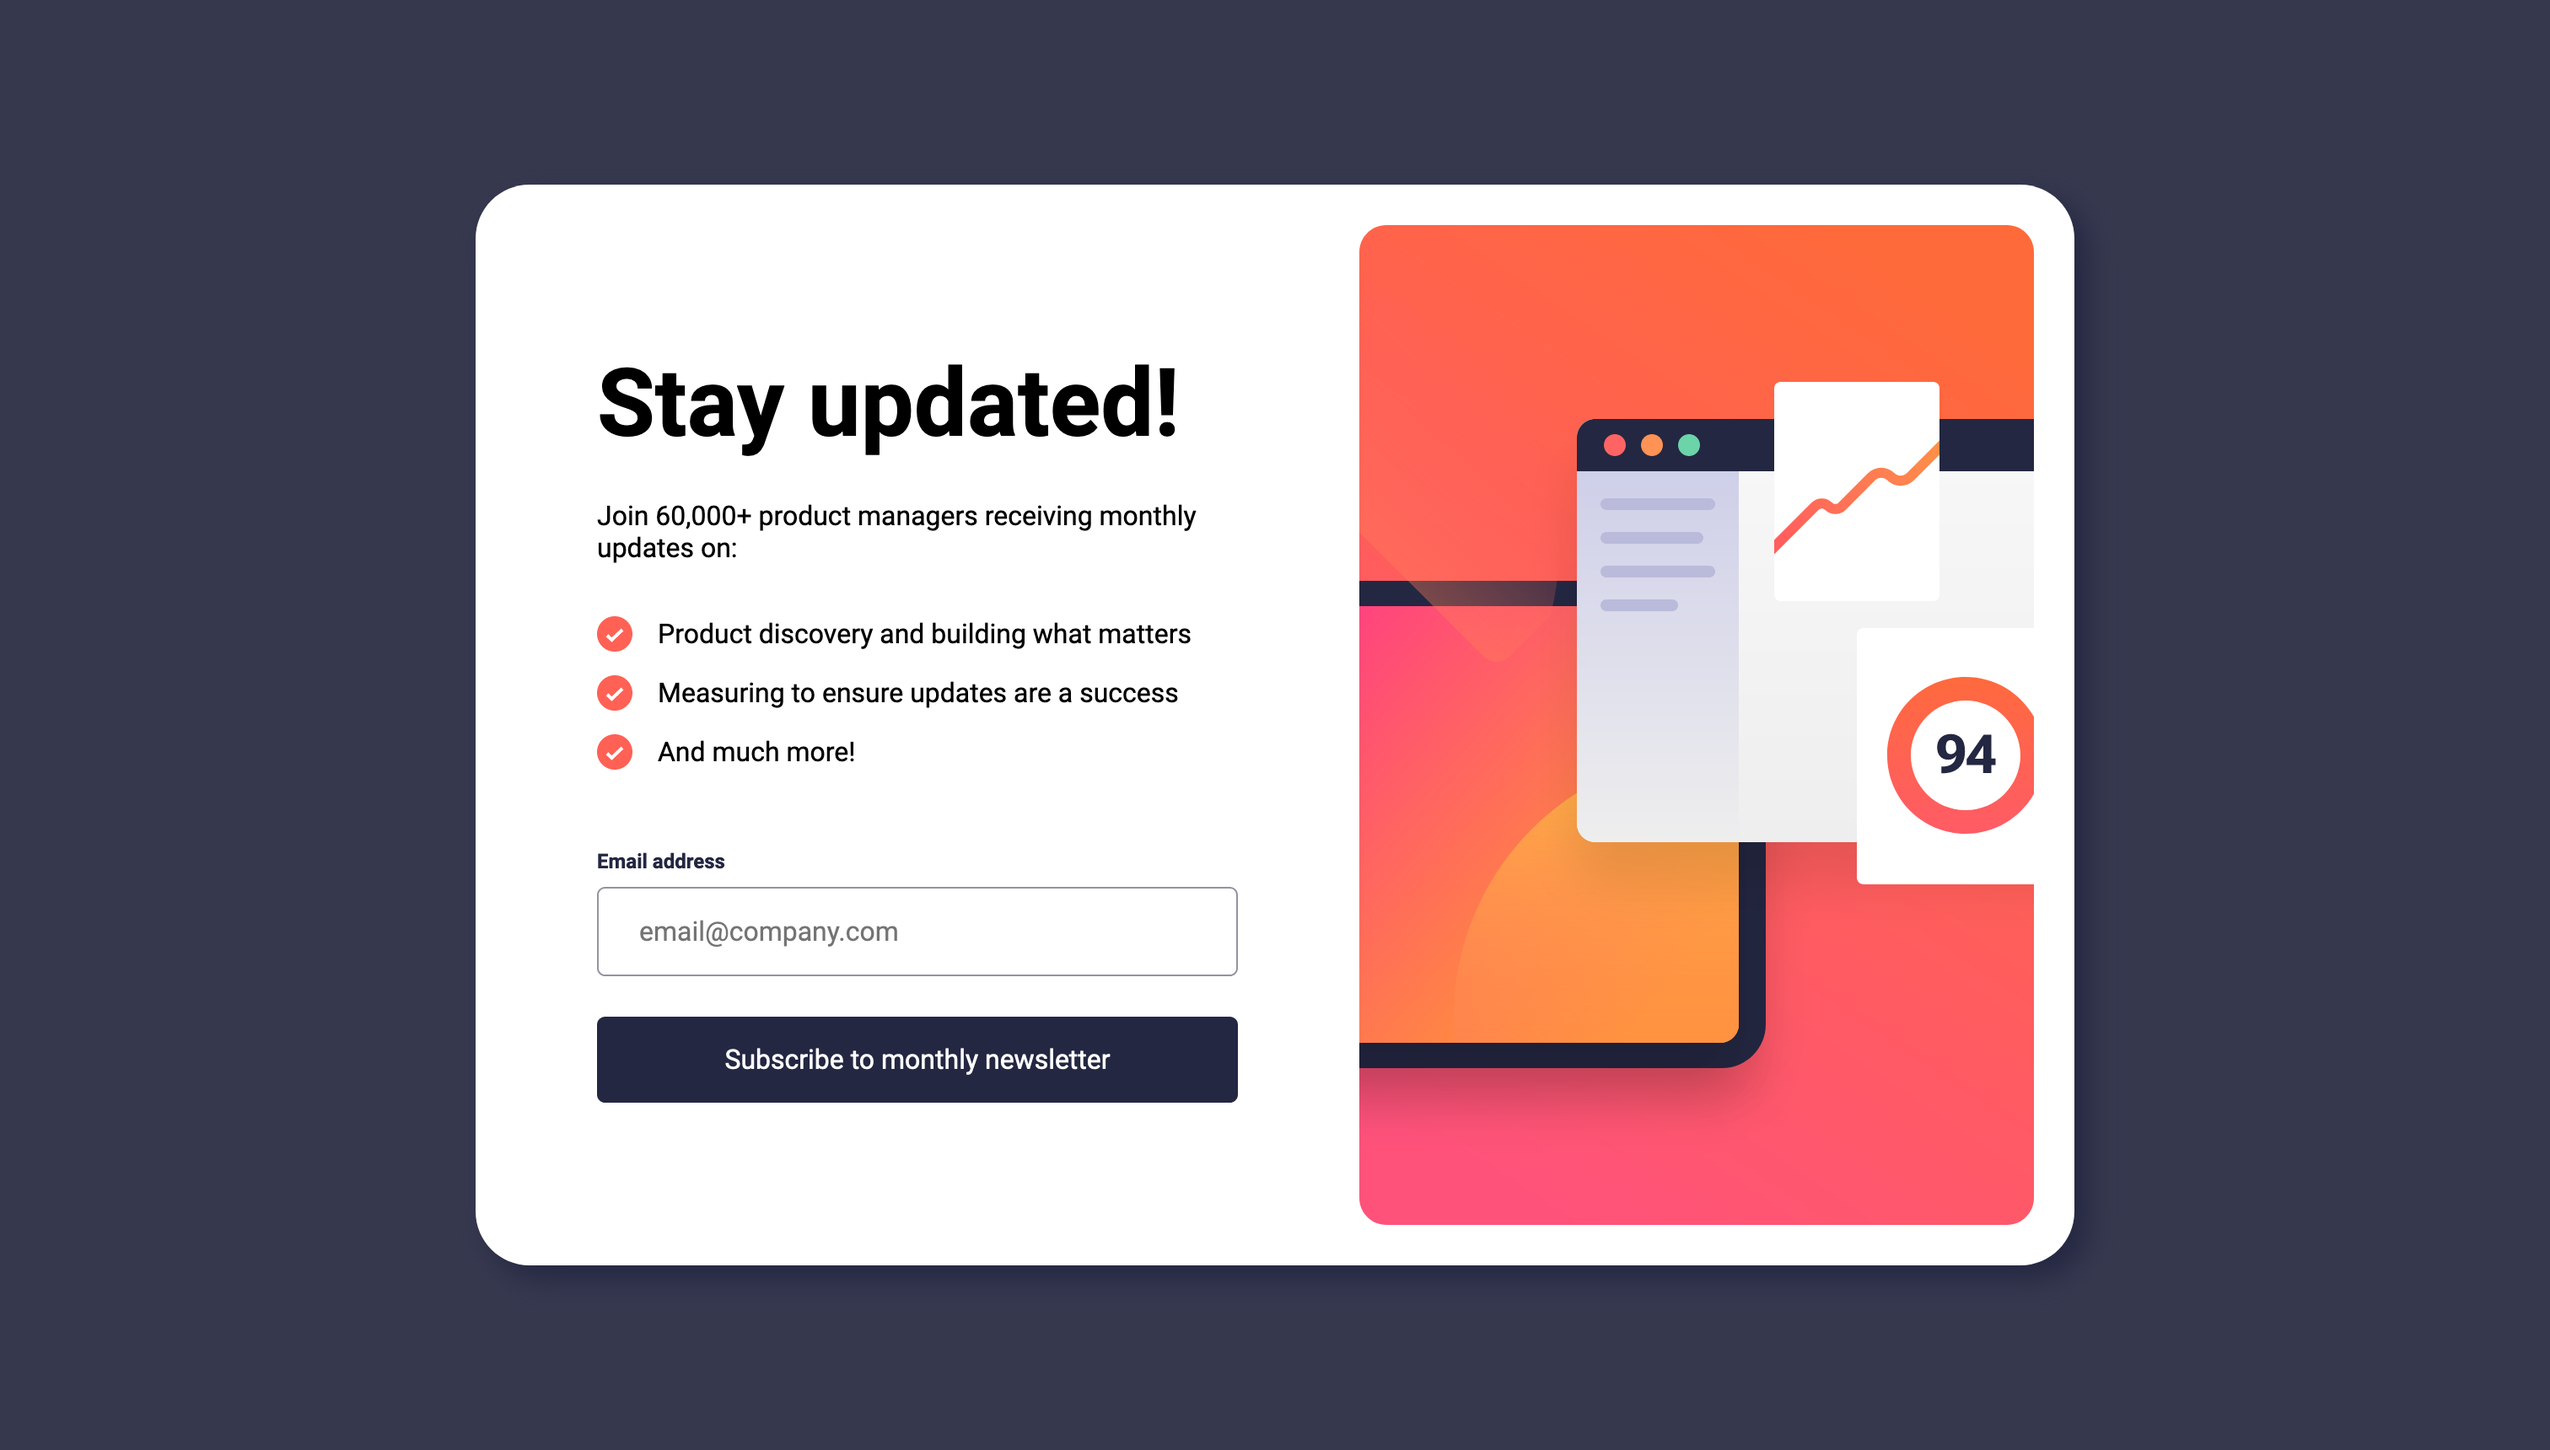
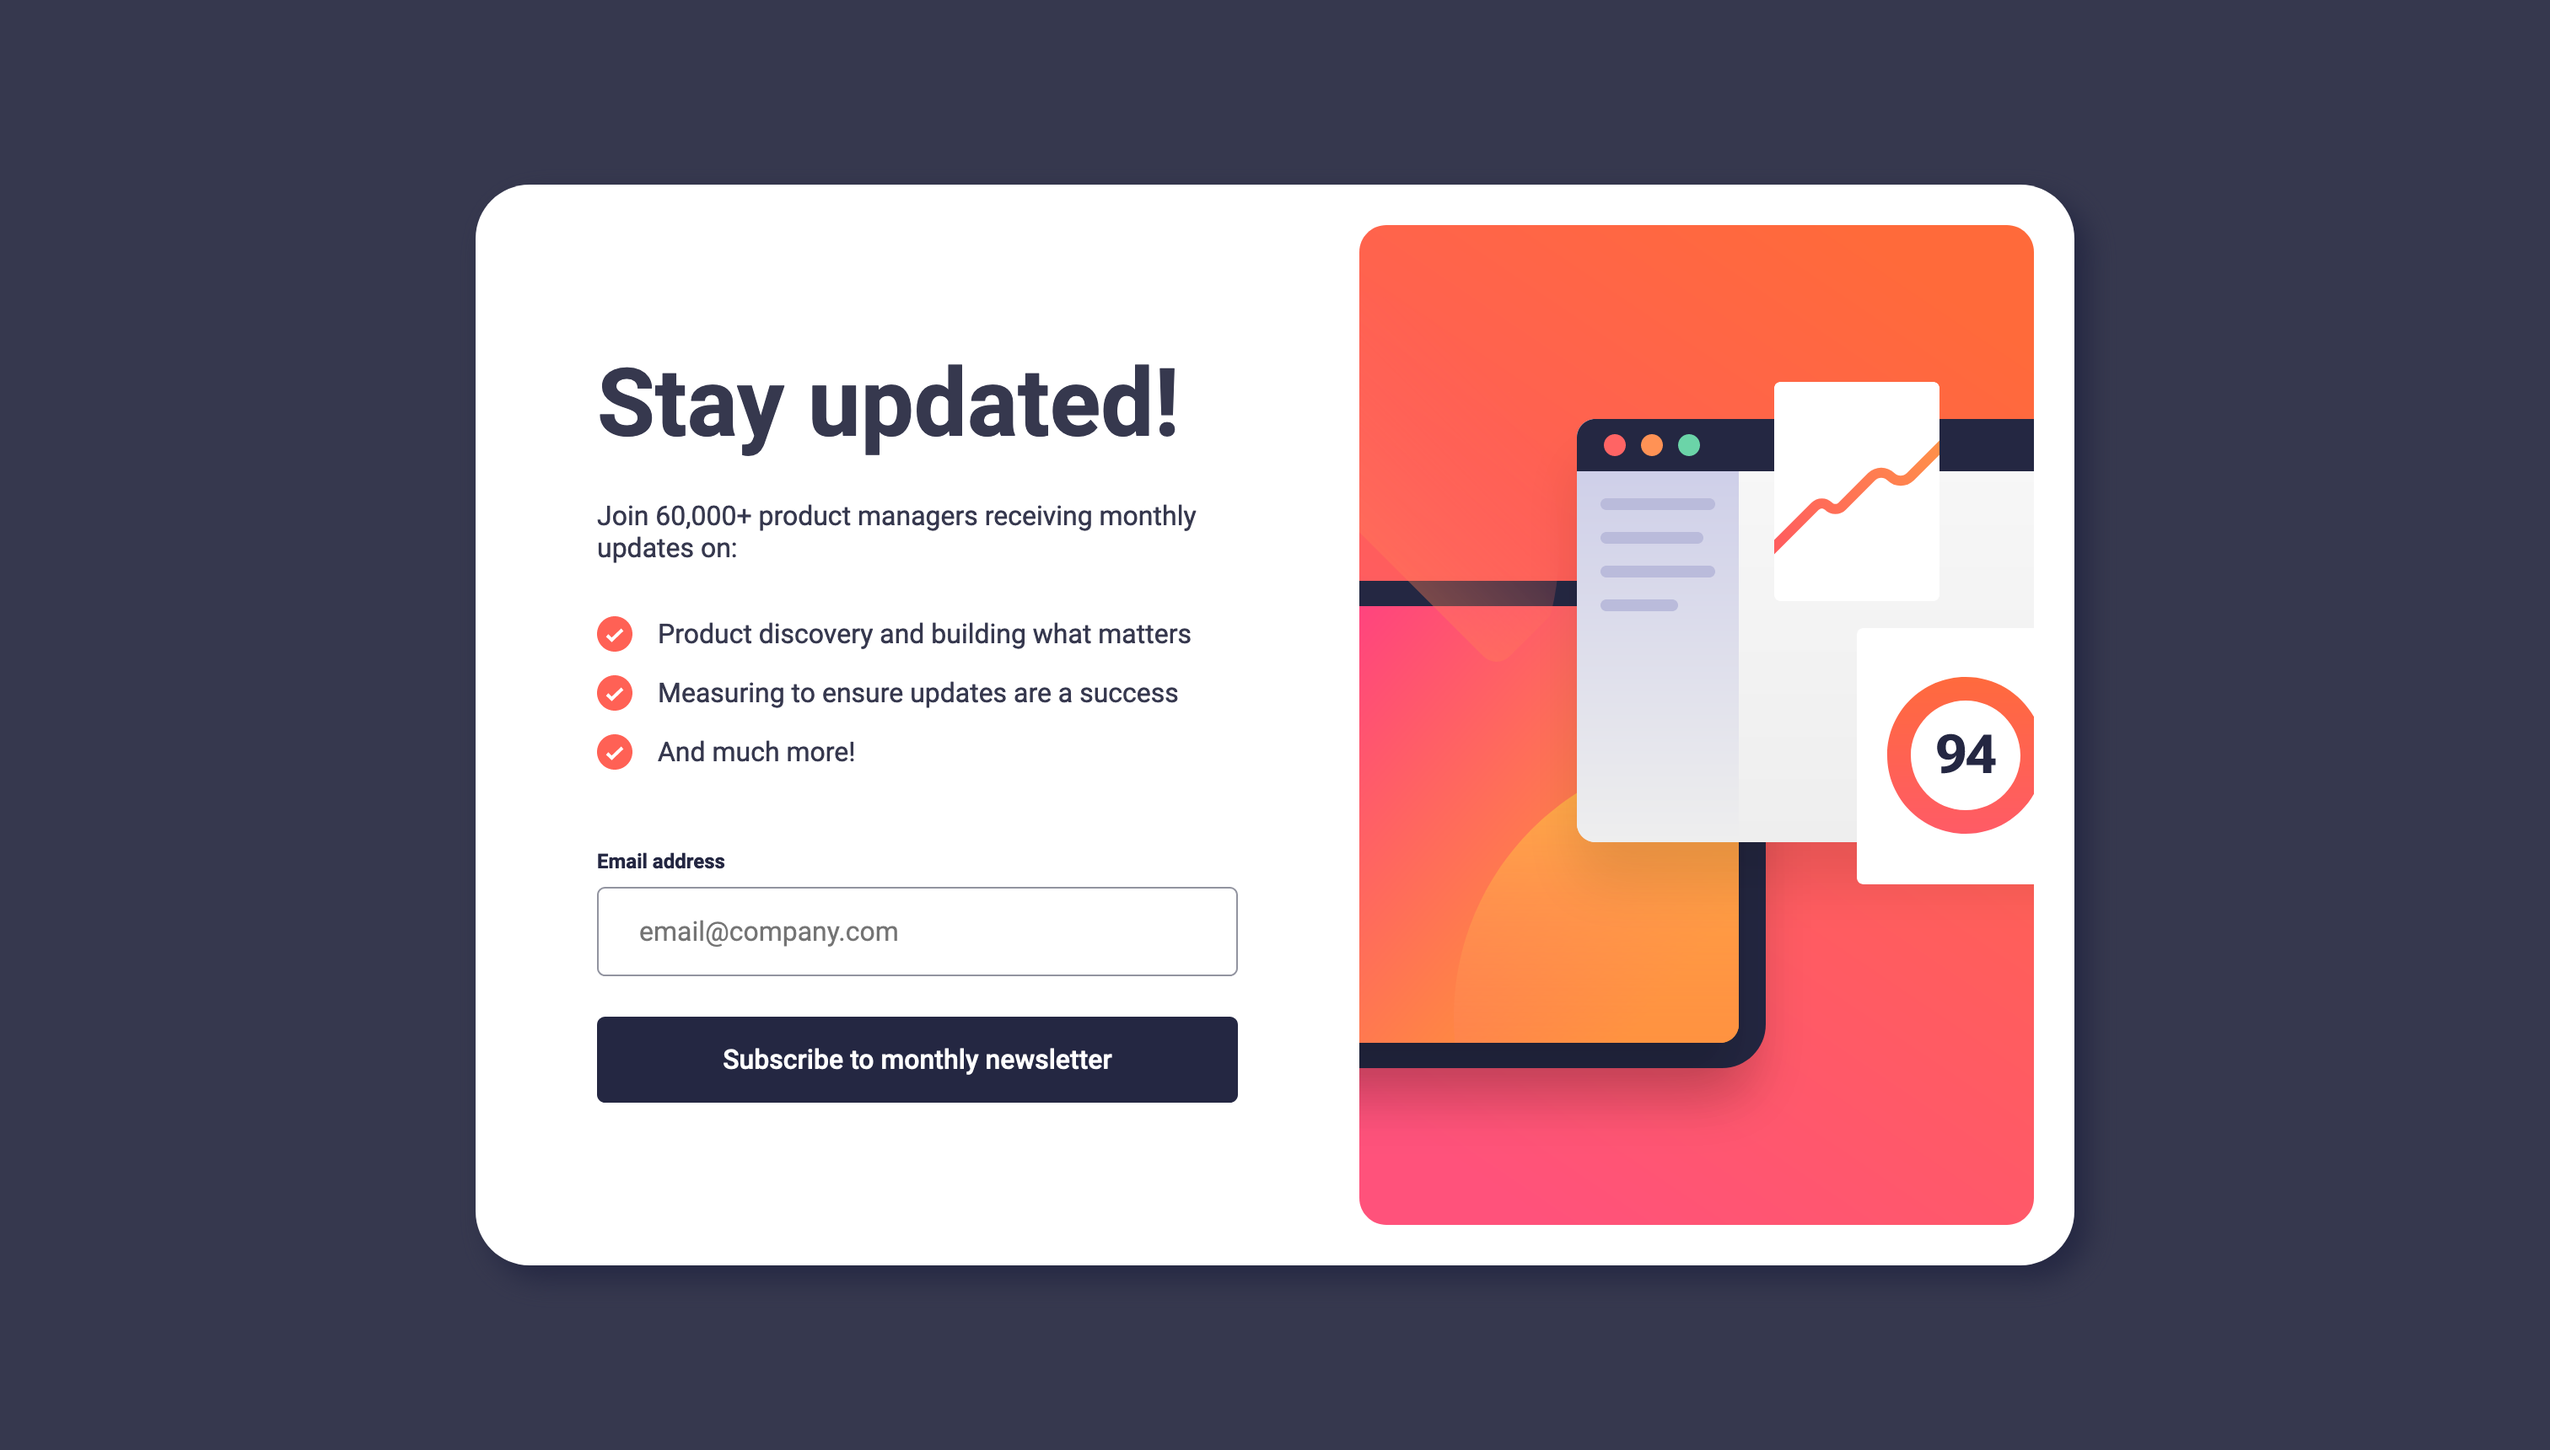
Styled thanks-state and active, focus states. Updated screenshot.

diff --git a/style.css b/style.css
@@ -52,6 +52,17 @@ main {
     width: min(100%, 80rem);
 }
 
+strong {
+    font-weight: var(--fw-bold);
+}
+
+button:hover,
+button:focus,
+button:active {
+    background: linear-gradient(to right, hsl(346, 100%, 66%), hsl(15, 100%, 61%));
+    box-shadow: 0 10px 10px 5px hsl(346, 50%, 66%, 0.5);
+}
+
 .card {
     border-radius: var(--border-radius);
     background-color: var(--clr-neutral-100);
@@ -64,7 +75,10 @@ main {
 
 .card.submitted {
     --start-content-display: none;
-    --thanks-content-display: block;
+    --thanks-content-display: flex;
+    width: 25rem;
+    padding: 2.5rem;
+    display: flex;
 }
 
 @media (max-width: 929px) {
@@ -72,6 +86,10 @@ main {
         padding: 0;
         width: 375px;
         border-radius: 0px;
+    }
+
+    .card.submitted {
+        min-height: 100svh;
     }
 }
 
@@ -96,6 +114,7 @@ main {
     justify-content: center;
     row-gap: 1rem;
     width: 500px;
+    color: var(--clr-neutral-700);
 }
 
 @media (max-width: 929px) {
@@ -108,6 +127,10 @@ main {
 .title {
     font-size: calc(var(--fs-p) * 3.5);
     font-weight: 700;
+}
+
+.thanks-state .title {
+    font-size: calc(var(--fs-p) * 2.5);
 }
 
 @media (max-width: 929px) {
@@ -143,6 +166,11 @@ main {
     color: var(--clr-neutral-800);
     font-weight: var(--fw-bold);
     font-size: calc(var(--fs-p) * 0.75);
+    display: flex;
+}
+
+.error-message {
+    display: none;
 }
 
 .email-form input {
@@ -152,13 +180,33 @@ main {
     border: 1px solid var(--clr-neutral-300);
 }
 
-.email-form button {
+input:focus-visible {
+    outline: none;
+    border-color: 1px solid var(--clr-neutral-700);
+    cursor: pointer;
+}
+
+form.error input,
+form.error input:focus-visible {
+    color: var(--clr-primary-400);
+    border-color: 1px solid var(--clr-primary-400);
+    background-color: hsl(4, 100%, 95%);
+}
+
+form.error .error-message{
+    color: var(--clr-primary-400);
+    margin-inline-start: auto;
+    display: inline;
+}  
+
+button {
     color: var(--clr-neutral-100);
     background-color: var(--clr-neutral-800);
     border: none;
     width: 100%;
     padding: 1rem;
     border-radius: var(--_border-radius);
+    font-weight: var(--fw-medium);
 }
 
 @media (max-width: 930px) {
@@ -174,5 +222,30 @@ main {
 }
 .thanks-state {
     display: var(--_thanks-content-display);
+    row-gap: 1rem;
+    --_font-size: calc(var(--fs-p) * .85);
+    justify-content: end;
+    flex-direction: column;
+    color: var(--clr-neutral-700);
+}
+
+.thanks-state .description,
+.thanks-state button {
+    font-size: var(--_font-size);
+} 
+
+.thanks-state .description {
+    line-height: 1.4;
+}
+
+@media (max-width: 929px) {
+    .thanks-state .description {
+        margin-block-end: 10rem;
+    }
+}
+
+.thanks-state button {
+    font-weight: var(--fw-medium);
+    border-radius: calc(var(--border-radius) * 0.15);
 }
 

diff --git a/index.html b/index.html
@@ -7,6 +7,7 @@
   <link rel="icon" type="image/png" sizes="32x32" href="./assets/images/favicon-32x32.png">
   <link href="https://fonts.googleapis.com/css2?family=Roboto:wght@400;500;700&display=swap" rel="stylesheet">
   <link rel="stylesheet" href="style.css">
+  <script type="module" src="main.js"></script>
   
   <title>Frontend Mentor | Newsletter sign-up form with success message</title>
 </head>
@@ -31,10 +32,10 @@
               And much more!
             </li>
           </ul>
-          <form action="#" class="email-form">
-            <label for="email">Email address</label>
-            <input type="email" name="email" id="email" placeholder="email@company.com">
-            <button type="submit">Subscribe to monthly newsletter</button>
+          <form action="#" class="email-form" novalidate>
+            <label for="email">Email address <span class="error-message">Valid email required</span></label>
+            <input type="email" name="email" id="email" placeholder="email@company.com" required>
+            <button class="subscribe" type="submit">Subscribe to monthly newsletter</button>
           </form>
         </section>
         <picture class="illustration">
@@ -47,7 +48,7 @@
         <svg xmlns="http://www.w3.org/2000/svg" width="64" height="64" viewBox="0 0 64 64"><defs><linearGradient id="a" x1="100%" x2="0%" y1="0%" y2="100%"><stop offset="0%" stop-color="#FF6A3A"/><stop offset="100%" stop-color="#FF527B"/></linearGradient></defs><g fill="none"><circle cx="32" cy="32" r="32" fill="url(#a)"/><path stroke="#FFF" stroke-width="4" d="m18.286 34.686 8.334 7.98 19.094-18.285"/></g></svg>
         <h1 class="title">Thanks for subscribing!</h1>
         <p class="description">
-          A confirmation email has been sent to ash@loremcompany.com. 
+          A confirmation email has been sent to <strong>ash@loremcompany.com</strong>. 
           Please open it and click the button inside to confirm your subscription.
         </p>
         <button class="dismiss">Dismiss message</button>

diff --git a/main.js b/main.js
@@ -1,0 +1,18 @@
+const form = document.querySelector('.email-form');
+const subscribeBtn = document.querySelector('.subscribe');
+const card = document.querySelector('.card');
+const dismissBtn = document.querySelector('.dismiss');
+
+
+subscribeBtn.addEventListener('click', (e) => {
+    e.preventDefault();
+    if (form.reportValidity()) {
+        card.classList.toggle('submitted');
+    } else {
+        form.classList.add('error');
+    }
+});
+
+dismissBtn.addEventListener('click', () => {
+    location.reload();
+});
